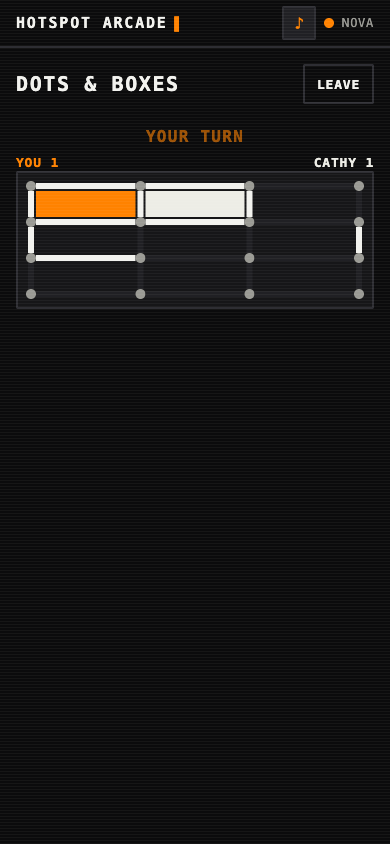
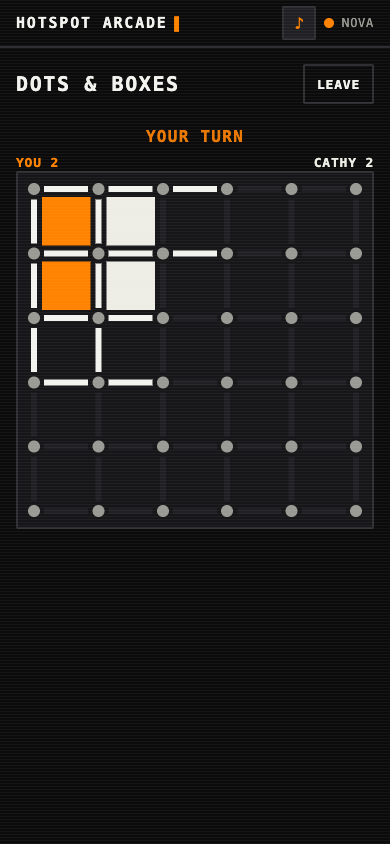
Make Dots & Boxes board fill the screen
The board sized to content (~190px tall) leaving most of the phone empty. Make
it a full-width square (aspect-ratio 1, flex row/col tracks) so it is ~2x bigger,
and give each edge a full-cell tap target with a thin centered line, so edges are
easy to hit on a phone. Refresh the README screenshot.

diff --git a/web/core/style.css b/web/core/style.css
@@ -213,21 +213,22 @@ h3{margin:0; font-weight:600}
 .board.ttt .cell::after{border-radius:0; inset:22%}
 .board.ttt .cell.opp::after{background:transparent; box-shadow:inset 0 0 0 5px var(--disc-opp)}
 
-/* Dots & Boxes */
-.dotsgrid{display:grid; align-items:center; justify-items:stretch;
+/* Dots & Boxes: a big square board that fills the width. Each edge cell is a full
+   tap target; the visible line is a thin centered band (classic dots look). */
+.dotsgrid{display:grid; width:100%; aspect-ratio:1; max-height:66vh;
   background:var(--surface); border:2px solid var(--line); border-radius:var(--radius);
-  padding:8px; gap:0; transition:opacity .1s ease-out}
+  padding:10px; gap:0; box-sizing:border-box; transition:opacity .1s ease-out}
 .dotsgrid:not(.mine){opacity:.7}
-.dot-node{width:10px; height:10px; background:var(--text-dim); border-radius:50%}
-.edge{background:transparent}
-.edge.h{height:6px; align-self:center}
-.edge.v{width:6px; height:100%; min-height:26px; justify-self:center}
-.edge.on{background:var(--text)}
+.dot-node{width:100%; height:100%; background:var(--text-dim); border-radius:50%}
+.edge{position:relative; background:transparent}
+.edge::before{content:""; position:absolute; background:transparent}
+.edge.h::before{left:8%; right:8%; top:50%; height:6px; transform:translateY(-50%)}
+.edge.v::before{top:8%; bottom:8%; left:50%; width:6px; transform:translateX(-50%)}
+.edge.on::before{background:var(--text)}
 .edge.tap{cursor:pointer}
-.edge.h.tap{background:var(--surface-2)}
-.edge.v.tap{background:var(--surface-2)}
-.edge.tap:active{background:var(--orange)}
-.box{width:100%; height:100%; min-height:26px; background:transparent}
+.edge.tap::before{background:var(--surface-2)}
+.edge.tap:active::before{background:var(--orange)}
+.box{background:transparent; margin:2px}
 .box.you{background:var(--disc-you)}
 .box.opp{background:var(--disc-opp)}
 .dscore{display:flex; justify-content:space-between; gap:10px; font-weight:700;

diff --git a/web/games/duel.js b/web/games/duel.js
@@ -53,8 +53,10 @@
     var myTurn = m.turn === m.you;
     var board = $("duel-board");
     board.className = "dotsgrid" + (myTurn ? " mine" : "");
-    // Columns: dot, (edge, dot) repeated w times. Edges flex, dots are fixed.
-    board.style.gridTemplateColumns = "10px" + " 1fr 10px".repeat(w);
+    // dot rows/cols are fixed and thin; edge + box tracks flex so the whole board
+    // fills its (square) container with big, tap-friendly cells.
+    board.style.gridTemplateColumns = "12px" + " 1fr 12px".repeat(w);
+    board.style.gridTemplateRows = "12px" + " 1fr 12px".repeat(h);
     board.innerHTML = "";
 
     for (var gr = 0; gr <= 2 * h; gr++) {